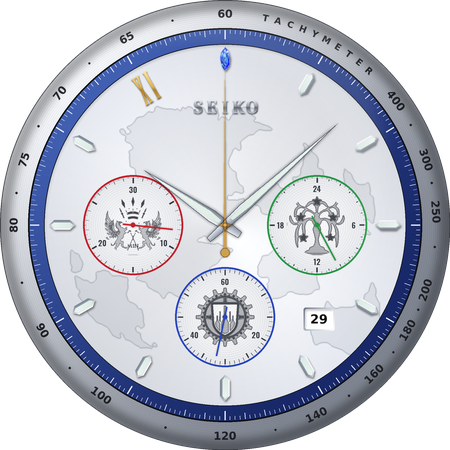
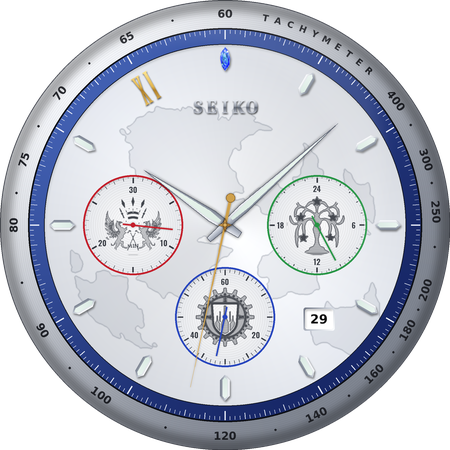
Watch face: We Are Vana'diel gold hand now sweeps the seconds
The big gold hand was a static image resting at 12, like a stopped
chronograph. It is now a ticking SecondHand in a full-size AnalogClock
(hidden in always-on); the Bastok sub-dial keeps its small seconds as on
the real watch.

Claude-Session: https://claude.ai/code/session_01DhcV9kAg7FMXufVfZQP7Ta

Changed region(s): [[0.4667, 0.1244, 0.5289, 0.6533], [0.4356, 0.6533, 0.4667, 0.8089], [0.4044, 0.8089, 0.4356, 0.84]]

diff --git a/ffxi-watchface/tools/generate_assets.py b/ffxi-watchface/tools/generate_assets.py
@@ -884,7 +884,7 @@ def ink_hand(tip, tail, w, color=INK, pad=3, inlay=None):
 # A replica of the Seiko x FFXI "WE ARE VANA'DIEL" chronograph: steel tachymeter bezel,
 # blue inner ring, silver-white dial with the world map, crystal-shaped lume markers,
 # SEIKO, gold XI, three white sub-dials (San d'Oria 30-min counter at 9, Windurst 24h at 3,
-# Bastok running seconds at 6), lume hands and a gold chronograph hand resting at 12.
+# Bastok running seconds at 6), lume hands and a gold sweep seconds hand.
 SEIKO_SUB_R = 50
 SEIKO_EMBLEM_R = 30
 SEIKO_POS = {'left': (225 - 92, 225), 'right': (225 + 92, 225), 'bottom': (225, 225 + 92)}
@@ -1051,7 +1051,7 @@ def lume_hand(tip, tail, w, pad=None):
 
 
 def chrono_hand(tip=166, tail=36, pad=3):
-    """Gold chronograph seconds hand with a round counterweight (rests at 12)."""
+    """Gold seconds hand with a round counterweight (the real watch's chronograph hand)."""
     img, px, py = hand_canvas(10, tip, tail, pad)
     d = ImageDraw.Draw(img)
     gold = (206, 160, 76, 255)
@@ -1548,7 +1548,7 @@ def patch_xml(overlays=None):
         setattrs(rf'<PartImage name="sub_{pos}_seiko" [^>]*>', cx, cy, f'hand_sub_{ink}_seiko')
     # running seconds: a SecondHand in a full-size AnalogClock, positioned over the Bastok dial
     setattrs(r'<SecondHand resource="hand_sub_blue_seiko" [^>]*>', *SEIKO_POS['bottom'], 'hand_sub_blue_seiko')
-    setattrs(r'<PartImage name="chrono_seiko" [^>]*>', 225, 225, 'hand_chrono_seiko')
+    setattrs(r'<SecondHand resource="hand_chrono_seiko" [^>]*>', 225, 225, 'hand_chrono_seiko')
     setattrs(r'<HourHand resource="hand_hour_seiko" [^>]*>', 225, 225, 'hand_hour_seiko')
     setattrs(r'<MinuteHand resource="hand_minute_seiko" [^>]*>', 225, 225, 'hand_minute_seiko')
     for name, (_, half) in CAPS.items():
@@ -1671,7 +1671,7 @@ def preview_seiko(dial_hi, hands_hi, caps_hi, glass_hi, hh=10, mm=8, ss=32, day=
     text_c(ImageDraw.Draw(img), (s(SEIKO_DATE[0]), s(SEIKO_DATE[1])), str(day), font(FONT_SANS_BOLD, 12.5), (16, 16, 16))
     place(img, hands_hi['hand_hour_seiko'], 'hand_hour_seiko', 225, 225, (hh % 12 + mm / 60) * 30)
     place(img, hands_hi['hand_minute_seiko'], 'hand_minute_seiko', 225, 225, mm * 6)
-    place(img, hands_hi['hand_chrono_seiko'], 'hand_chrono_seiko', 225, 225, 0)
+    place(img, hands_hi['hand_chrono_seiko'], 'hand_chrono_seiko', 225, 225, ss * 6)
     cap = caps_hi['cap_seiko']
     img.alpha_composite(cap, (round(C - cap.width / 2), round(C - cap.height / 2)))
     img.alpha_composite(glass_hi)
